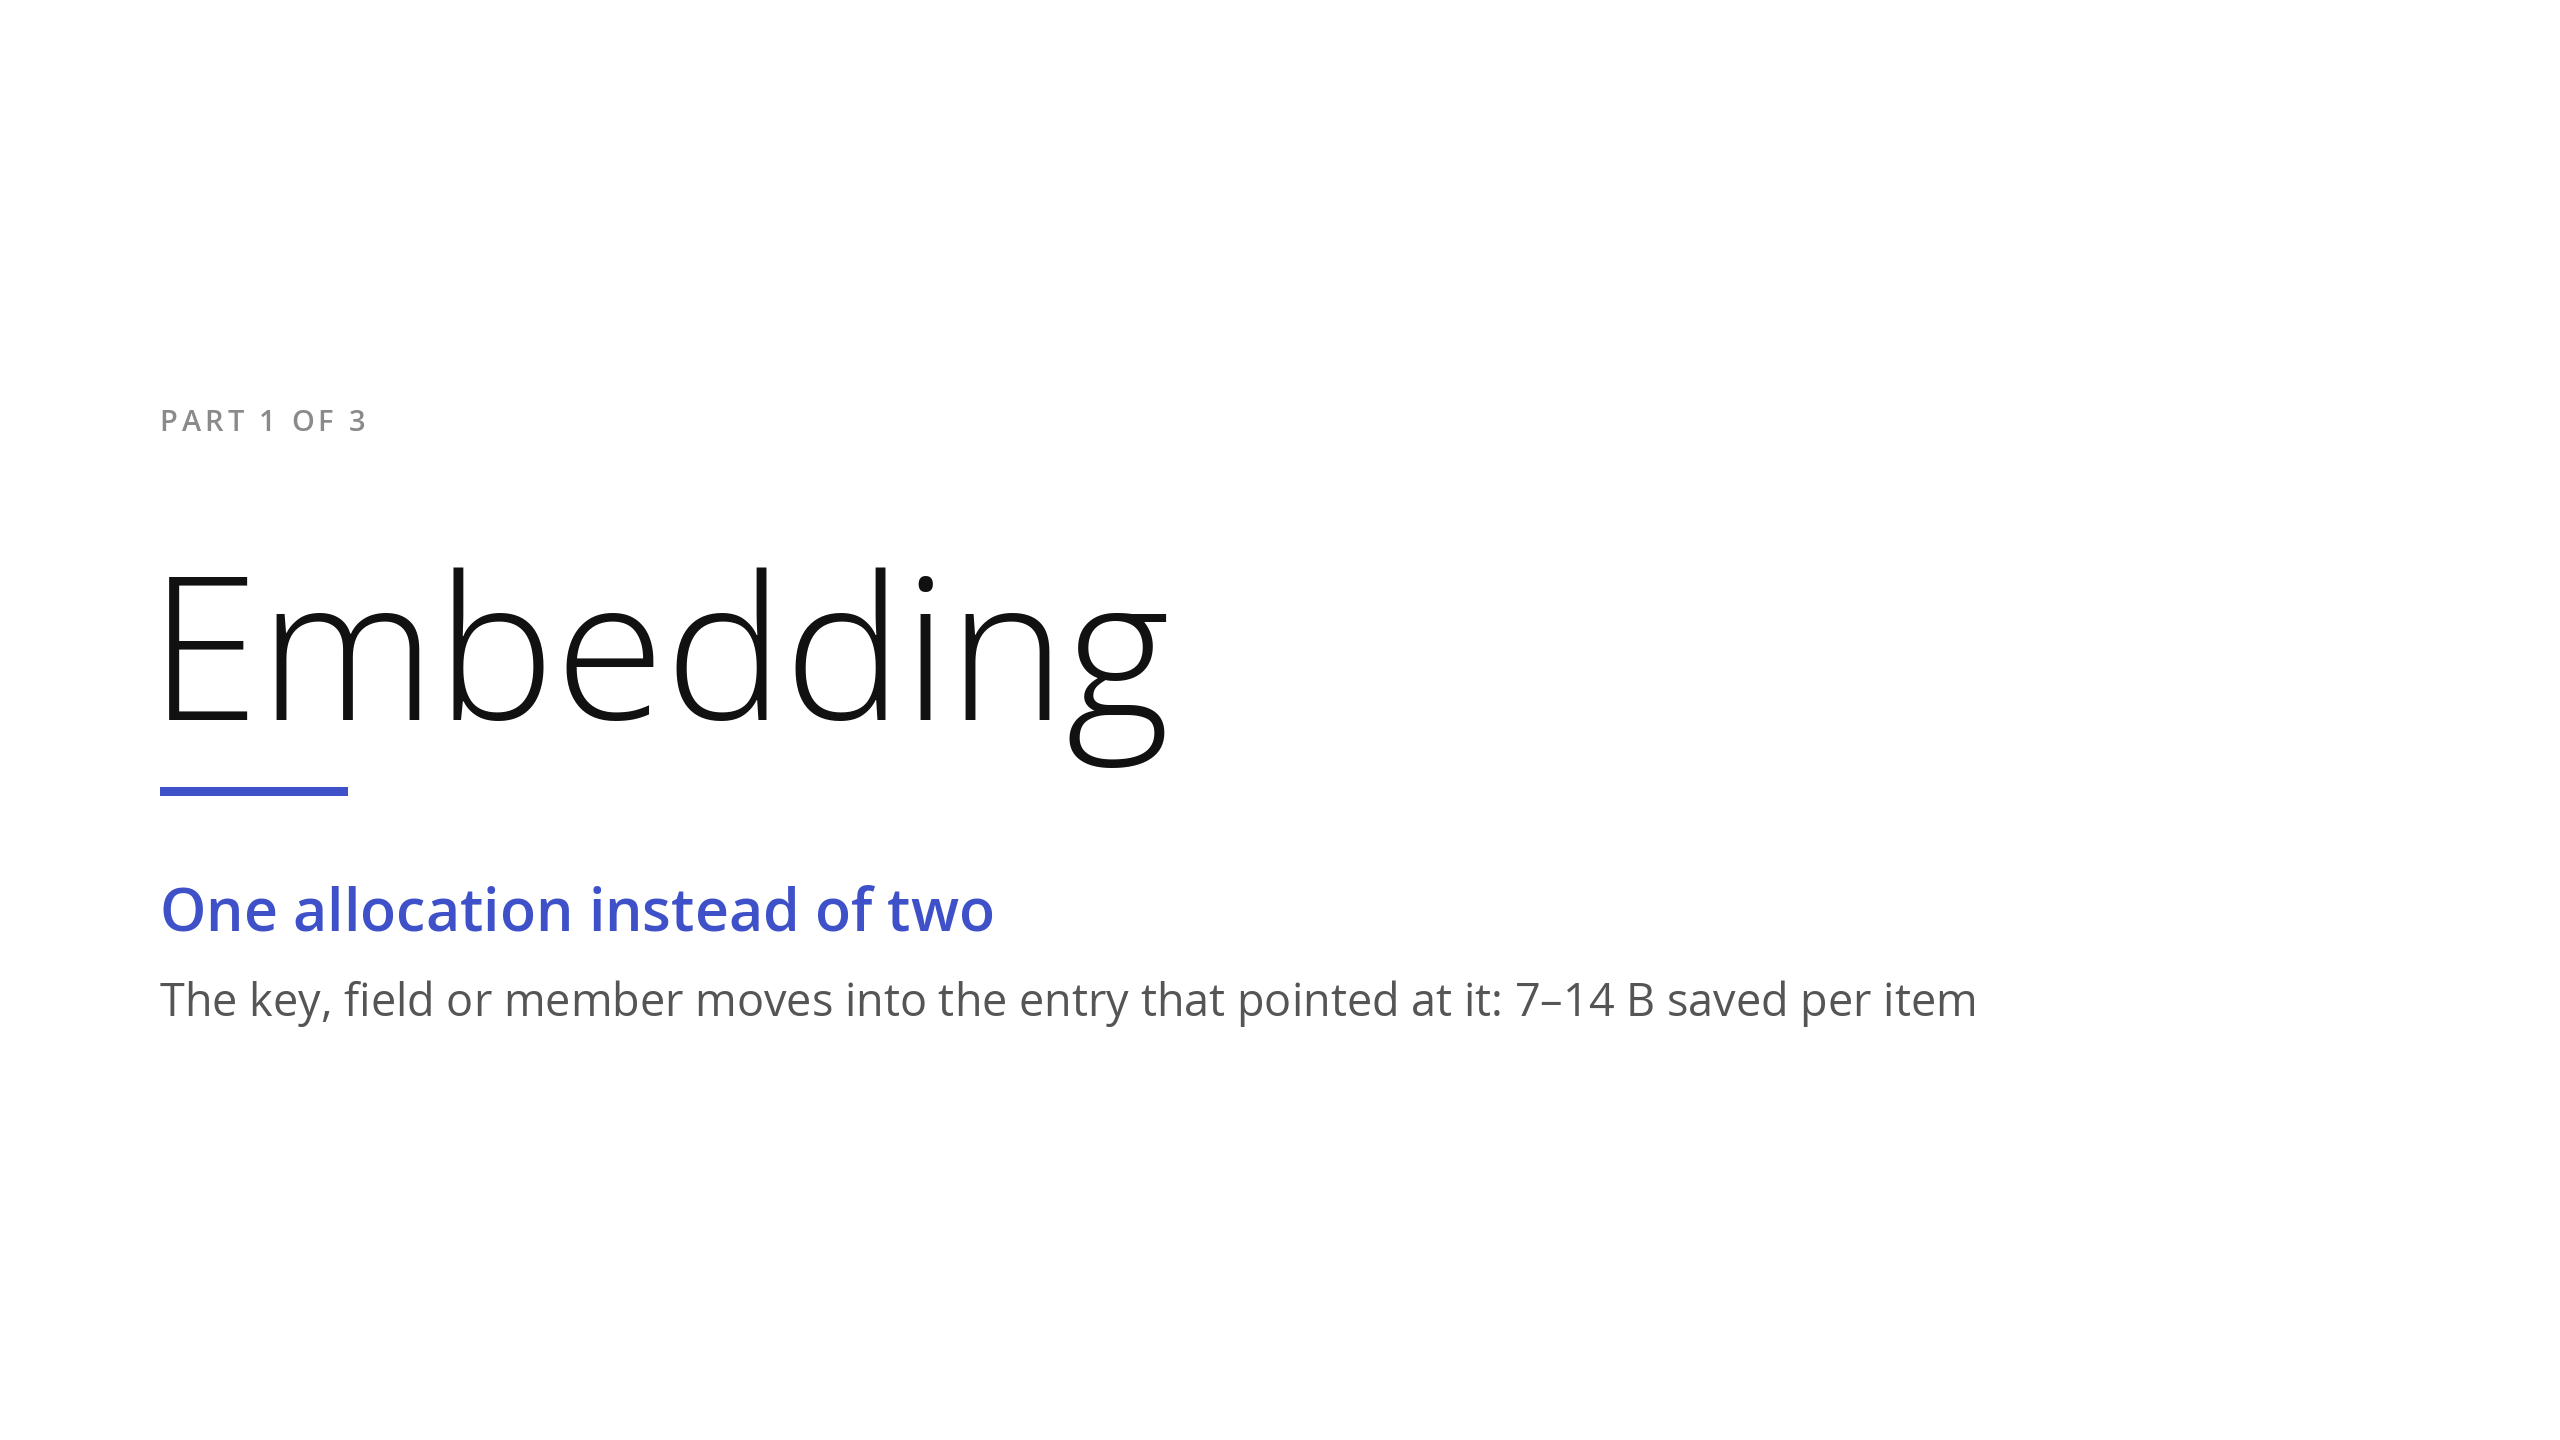
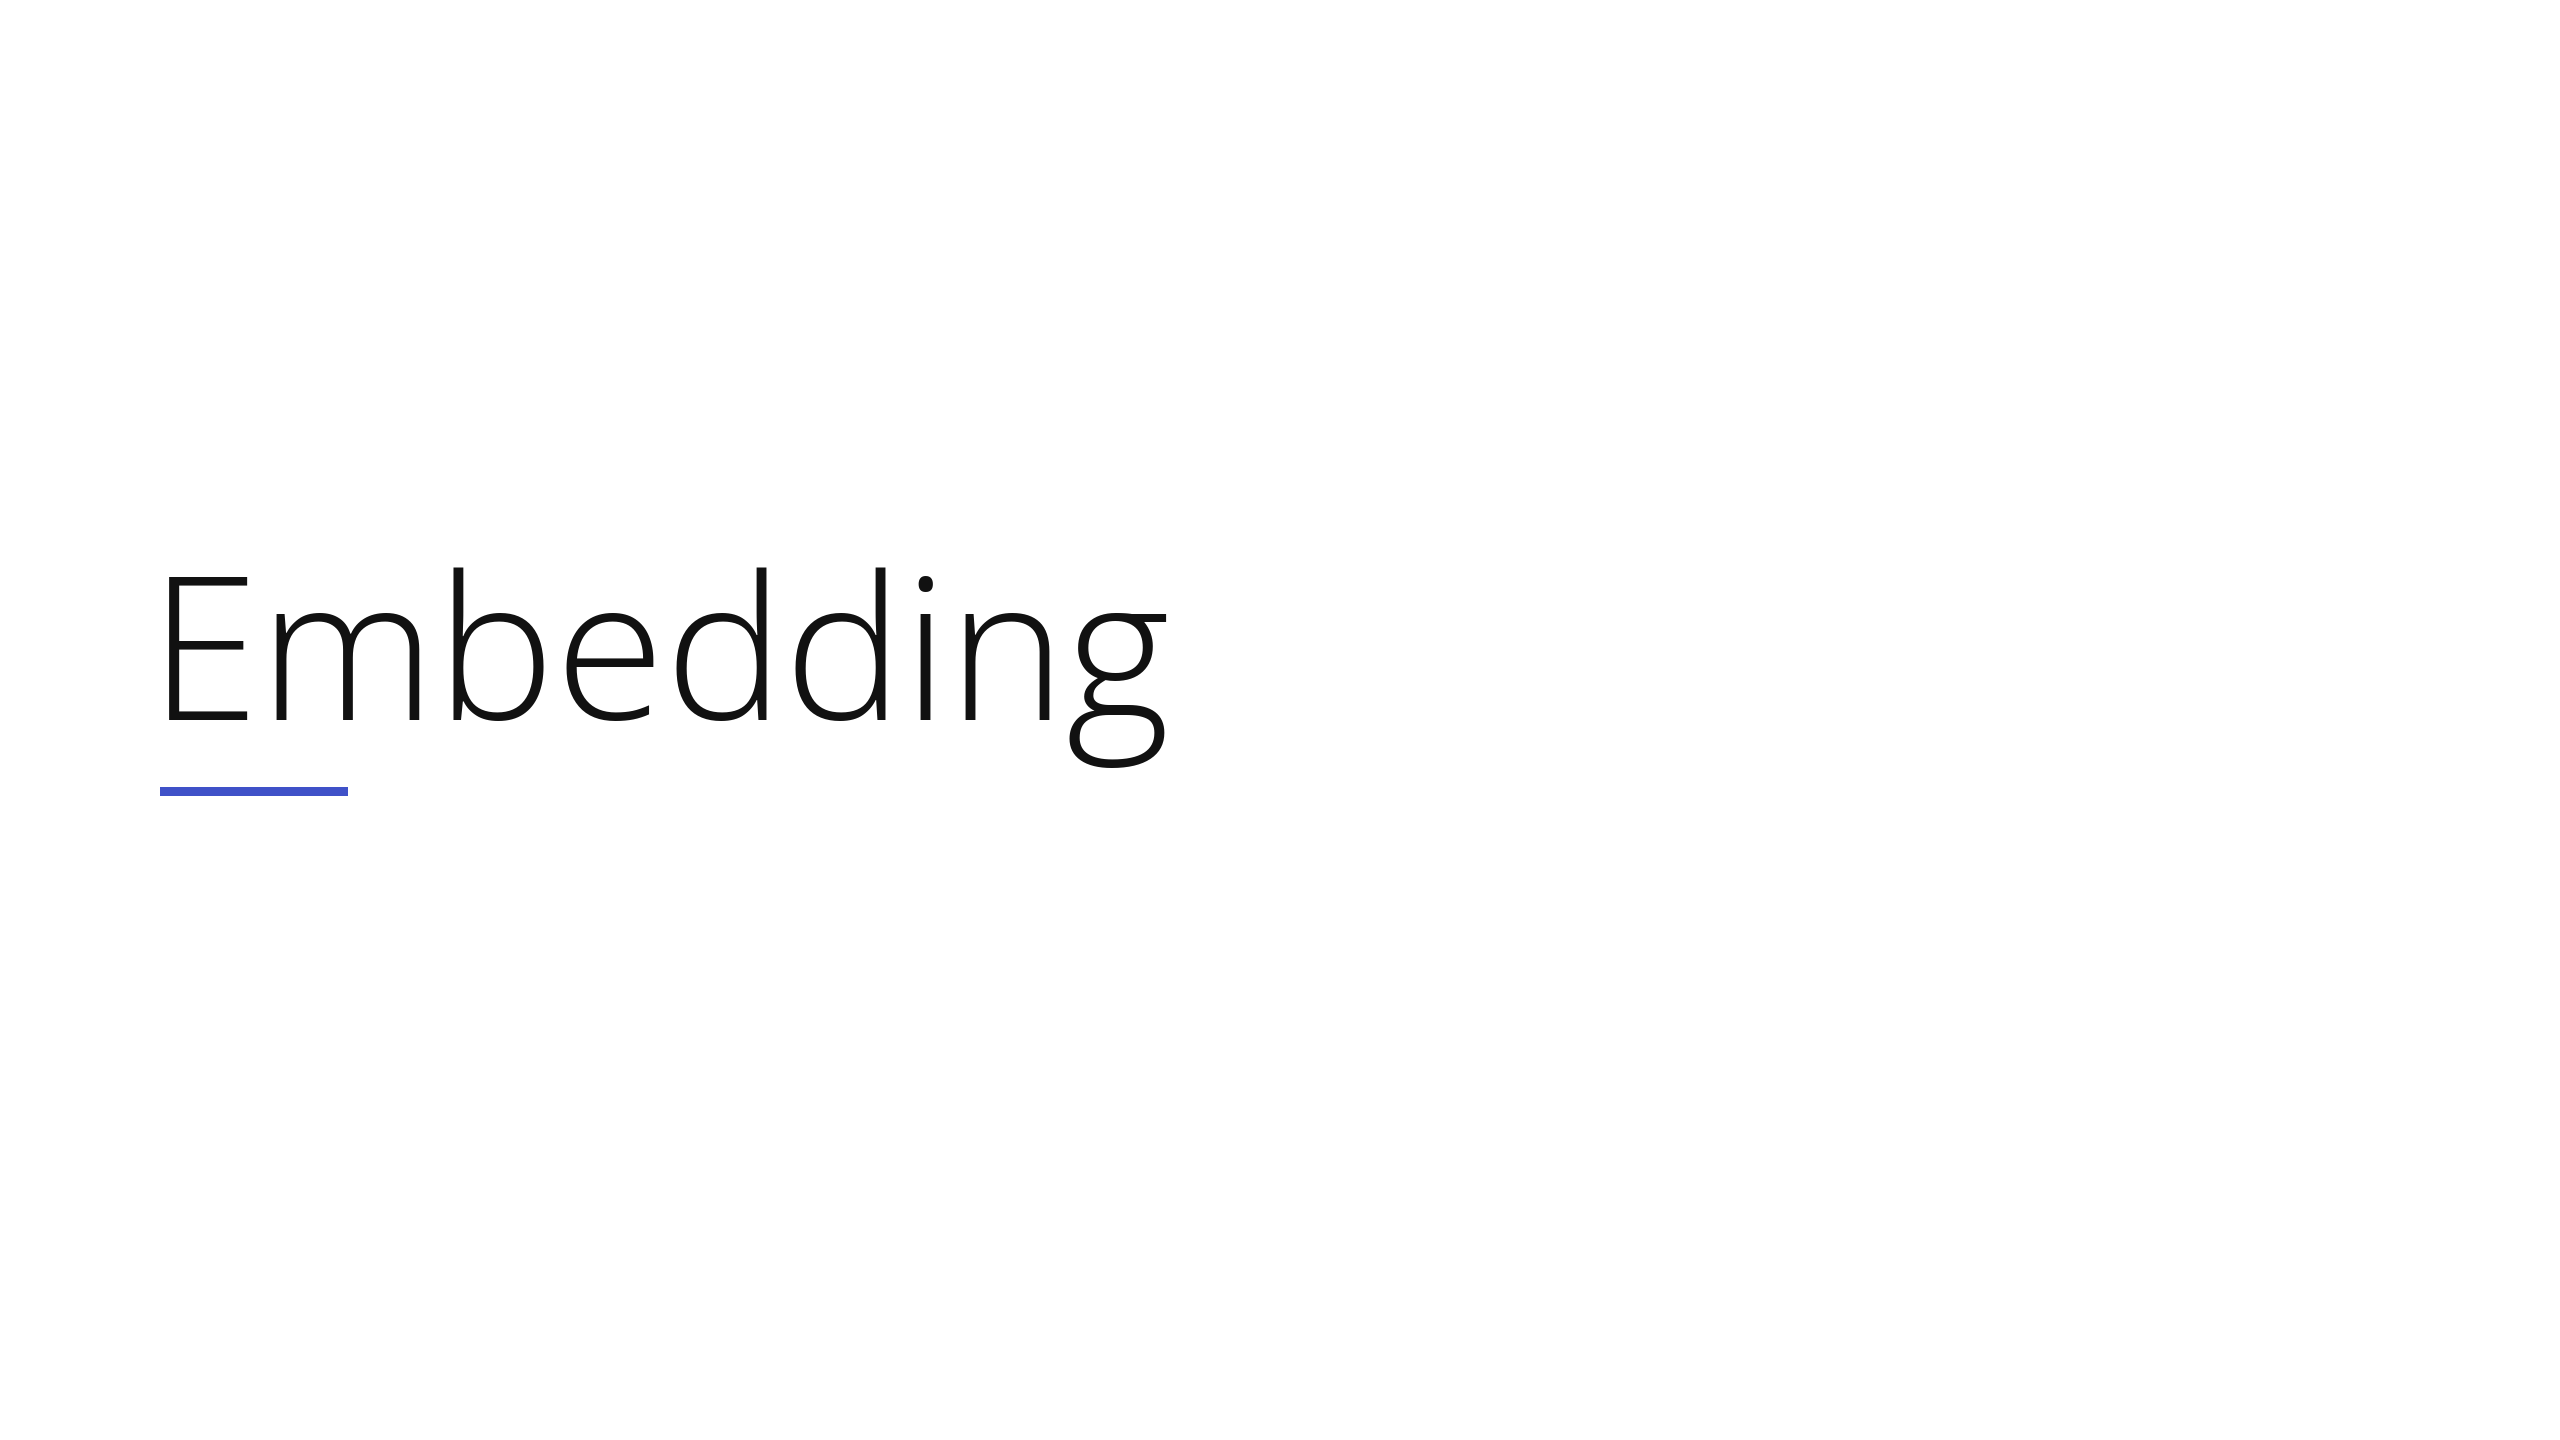
Section openers show only the title
Slides 4, 11 and 15 drop the 'Part N of 3' eyebrow, the claim and the
detail line, matching 'The Future' (slide 21): one word and the accent bar.
The claims stay in slides.py as comments; Rain says them aloud.

Changed region(s): [[0.0625, 0.6875, 0.7812, 0.7188], [0.0625, 0.625, 0.4062, 0.6562], [0.0625, 0.2812, 0.0938, 0.3125]]

diff --git a/slides.py b/slides.py
@@ -34,8 +34,7 @@ SLIDES = [
     figure('003', 'chart-overhead-2x2.svg', box=CHART),                 # overhead per key, release by release (plain)
 
     # ---- Part 1: embedding ----------------------------------------------------------------------------------
-    section('004', 'Part 1 of 3', 'Embedding', 'One allocation instead of two',
-            'The key, field or member moves into the entry that pointed at it: 7–14 B saved per item'),
+    section('004', None, 'Embedding', None, None),                          # spoken: one allocation instead of two; 7–14 B saved per item
     figure('005', 'fig-embed-1-dict-key.svg',         title='Dictionary entry',                 box=EMBED),  # PR 541   8.0
     figure('006', 'fig-embed-2-hash-value.svg',       title='Hash entry',                       box=EMBED),  # PR 1579  9.0
     figure('007', 'fig-embed-3-zset-member.svg',      title='Sorted set: skiplist node',        box=EMBED),  # PR 2508  9.1
@@ -44,16 +43,14 @@ SLIDES = [
     figure('010', 'chart-overhead-2x2_step1_embedding.svg', box=CHART),
 
     # ---- Part 2: dict -> hashtable --------------------------------------------------------------------------
-    section('011', 'Part 2 of 3', 'Dict → Hashtable', 'One cache line per lookup',
-            'A bucket holds seven entries in 64 B; key and value share one object: 79 B → 64 B per key'),
+    section('011', None, 'Dict → Hashtable', None, None),                   # spoken: one cache line per lookup; 79 B → 64 B per key
     # the collision-chain sequence: 7.2 -> 8.0 -> (key, expiry into the object) -> 8.1, one click per frame
     *[figure(f'012{c}', f'fig-ht-6{t}-chain.svg', box=margin(0.025))
       for c, t in zip('abcdefg', ('a1', 'a2', 'a', 'b', 'c', 'd', 'e'))],
     figure('014', 'chart-overhead-2x2_step2_hashtable.svg', box=CHART),
 
     # ---- Part 3: skiplist -> B+ tree ------------------------------------------------------------------------
-    section('015', 'Part 3 of 3', 'Skiplist → B+ Tree', '62.2 B → 40.9 B per member',
-            'Members packed into leaves instead of one node each; a lookup is 7 reads instead of 19'),
+    section('015', None, 'Skiplist → B+ Tree', None, None),                 # spoken: 62.2 B → 40.9 B per member; 7 reads instead of 19
     figure('016', 'fig-fb-1-skiplist-topology.svg',   box=(0, 412, 2560, 1028), trim=True),
     figure('017', 'fig-fb-2-fbtree-topology.svg',     box=(0, 216, 2560, 1224), trim=True),
     figure('018', 'fig-fb-4-allocations-to-scale.svg', box=(-4, 0, 2560, 1440), trim=True),   # every allocation of 61 members, to scale
